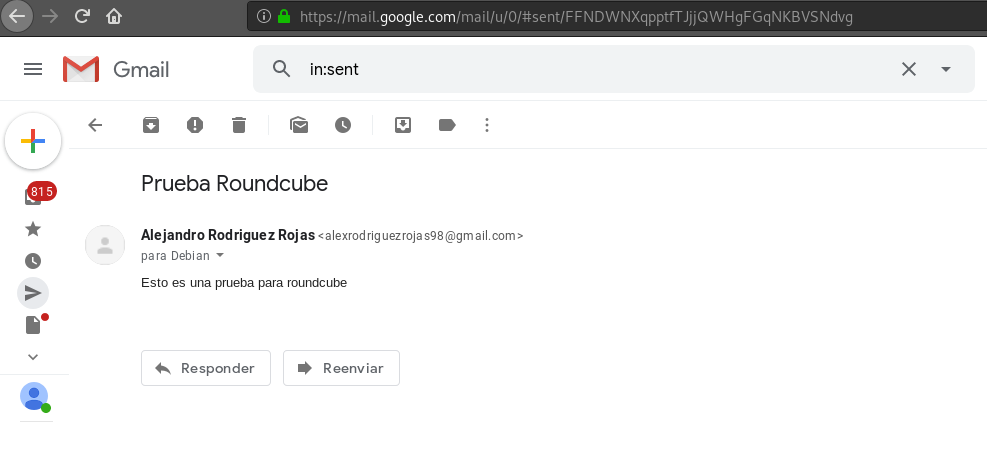
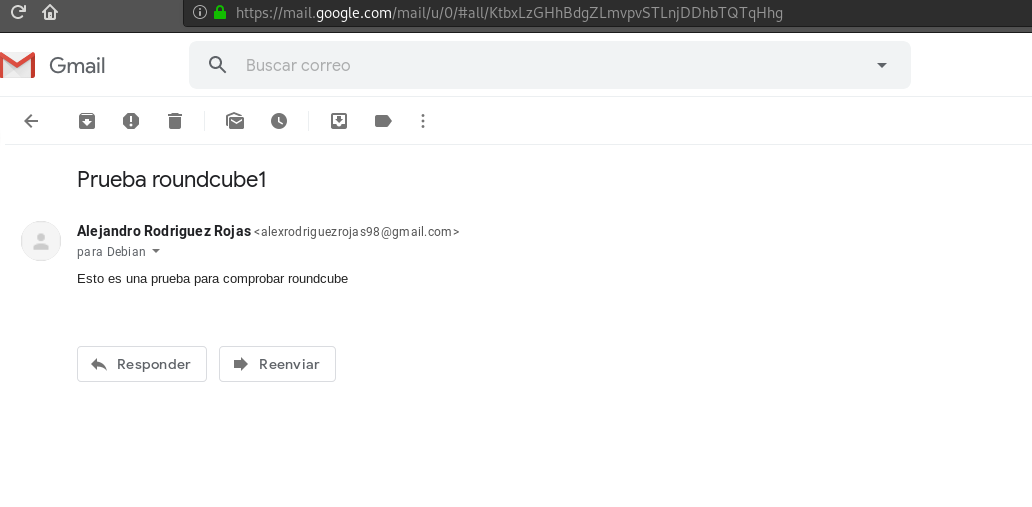
Roundcube

diff --git a/content/posts/correos.md b/content/posts/correos.md
@@ -495,7 +495,11 @@ rm -r /var/lib/roundcube/installer
 Vamos a realizar una prueba, para ello vamos a enviarnos un correo para ver si nos llega a roundcube.
 ![](/images/Roundcube6.png)
 
+![](/images/Roundcube9.png)
+
 Y probamos el envio
 ![](/images/Roundcube7.png)
 
 ![](/images/Roundcube8.png)
+
+
